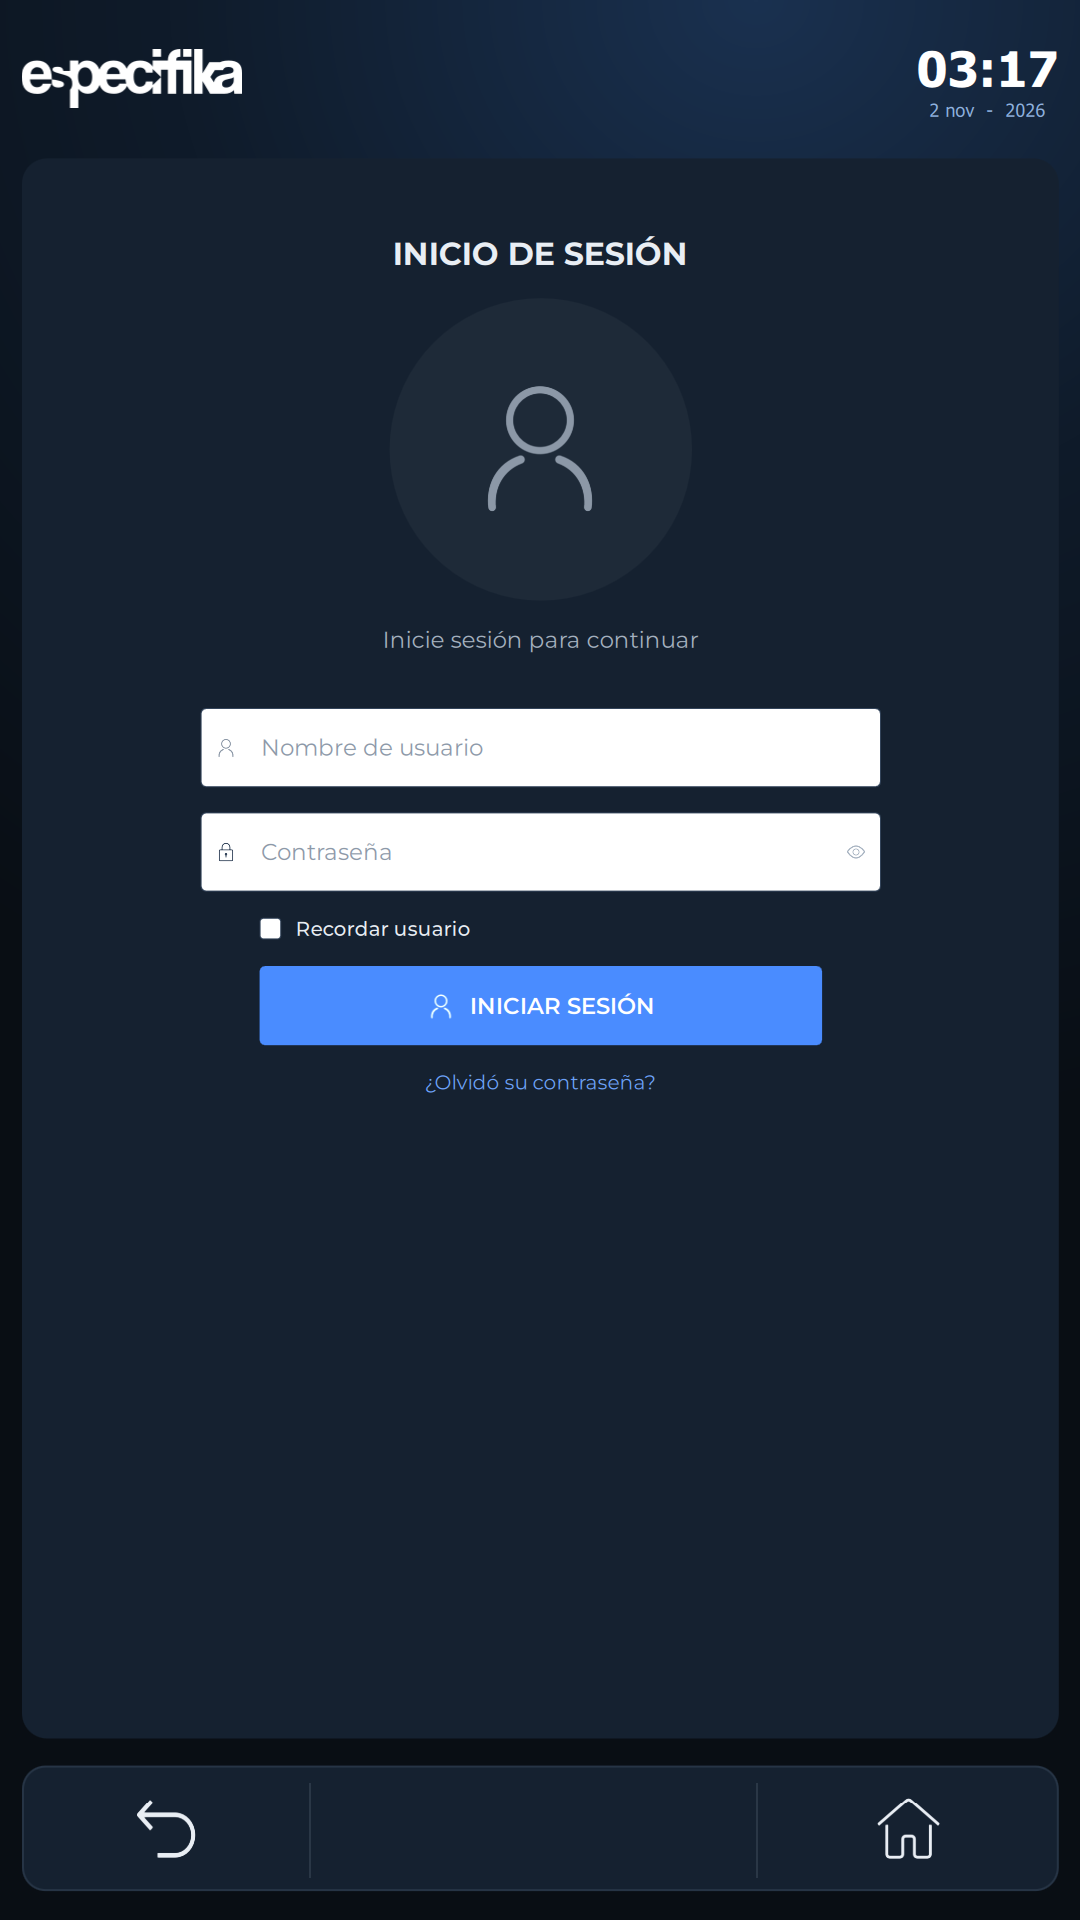
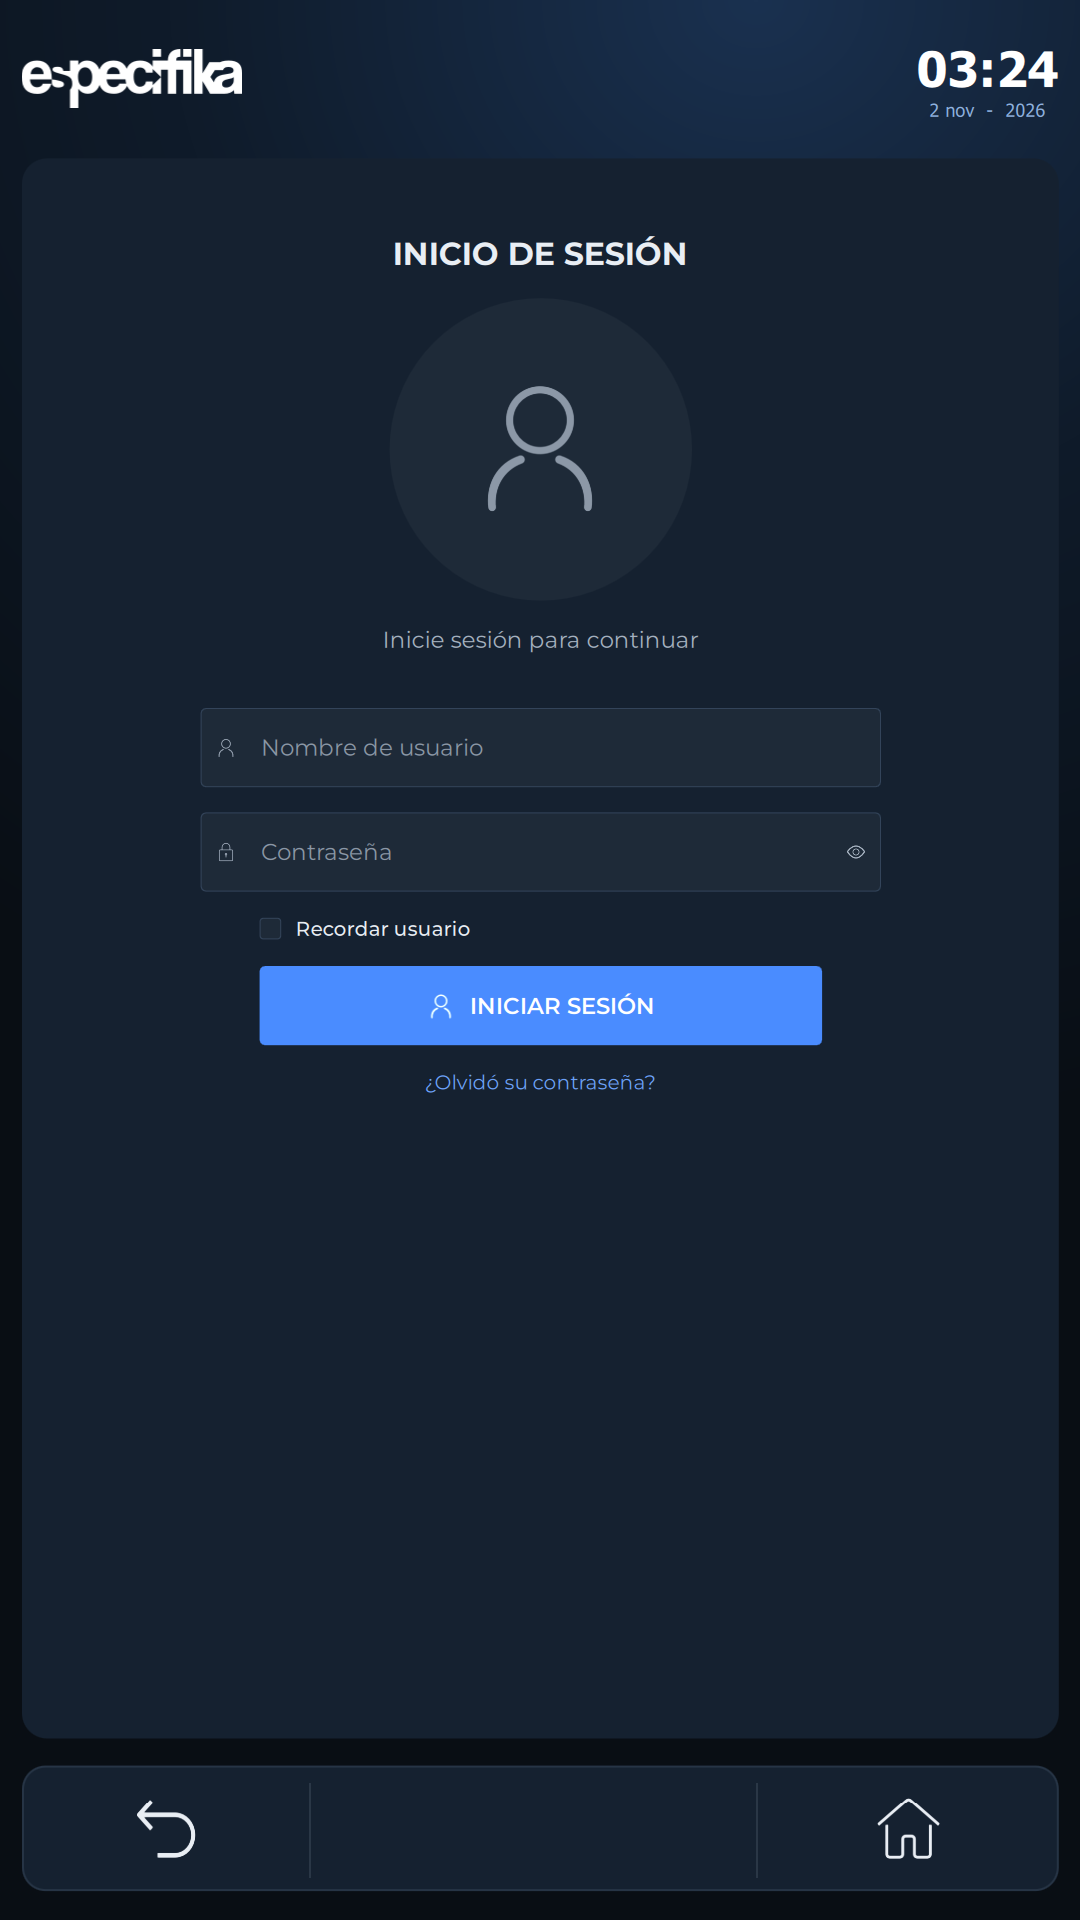
fix(tema): campos de formulario y PUERTA CERRADA legibles en modo oscuro (OSC-21, OSC-22)

Changed region(s): [[0.1833, 0.3438, 0.825, 0.5], [0.9167, 0.0312, 0.9778, 0.0625]]

diff --git a/src/autoclave/ui_qml/qml/Tema/Colores.qml b/src/autoclave/ui_qml/qml/Tema/Colores.qml
@@ -69,6 +69,10 @@ QtObject {
     readonly property color bordeCampo:         oscuro ? "#33445A" : "#CCCCCC" // neutro_300
     readonly property color fondoSutil:         oscuro ? "#18222F" : "#F6F6F6" // bg-subtle
     readonly property color fondoTarjeta:       oscuro ? "#152130" : "#FFFFFF"
+    // Campos de formulario (Login, CampoFormulario, casilla «Recordar usuario»; OSC-21):
+    // claro = el blanco que daba el Rectangle sin color; oscuro = superficie elevada (paleta §6)
+    readonly property color fondoCampo:         oscuro ? "#1E2A38" : "#FFFFFF"
+    readonly property color iconoCampo:         oscuro ? "#8C98A7" : "#CCCCCC" // candado del Login (OSC-18); claro = bordeCampo de hoy
     readonly property color iconoBarraInferior: oscuro ? "#E9EEF4" : "#333333" // neutro_800
 
     // ───────────── Propiedades nuevas del modo oscuro (plan.md §3) ─────────────
@@ -184,6 +188,8 @@ QtObject {
     readonly property color iconoBarraMenu: oscuro ? "#E9EEF4" : "#231F20" // back/home de BarraInferiorMenu (OSC-16)
     readonly property color seleccionSutil:     oscuro ? "#16305E" : "#E8F0FE" // → accionFondoTenue (OSC-11)
     readonly property color puertaCerradaFondo: oscuro ? "#1E2A38" : "#EAF1F8" // → fondoElevado
+    readonly property color puertaCerradaBorde: oscuro ? "#3B6FD8" : "#2C4B70" // IndicadorPuerta «PUERTA CERRADA»: claro = fondoBarraSuperior (OSC-22); oscuro = borde de acción (paleta §2)
+    readonly property color puertaCerradaTexto: oscuro ? "#6EA4FF" : "#2C4B70" // texto e ícono; claro = fondoBarraSuperior, oscuro = accionPrimarioTexto (≥ 3:1 sobre puertaCerradaFondo)
     readonly property color fondoSeccion:       oscuro ? "#18222F" : "#F2F2F2" // → fondoSutil
     readonly property color peligroFuerte:      "#B71C1C" // PanelEquipo (OSC-10)
     readonly property color naranjaTexto:  oscuro ? "#FFAE5C" : "#EC9233" // → advertenciaTexto

diff --git a/src/autoclave/ui_qml/qml/Pantallas/Login.qml b/src/autoclave/ui_qml/qml/Pantallas/Login.qml
@@ -177,6 +177,7 @@ Item {
 
                         Rectangle {
                             width: parent.width; height: Escala.px(88); radius: Escala.px(6)
+                            color: Colores.fondoCampo
                             border.color: raiz.campoActivo === "usuario" ? Colores.accionPrimario
                                                                          : Colores.bordeCampo
                             border.width: raiz.campoActivo === "usuario" ? 2 : 1
@@ -219,6 +220,7 @@ Item {
 
                         Rectangle {
                             width: parent.width; height: Escala.px(88); radius: Escala.px(6)
+                            color: Colores.fondoCampo
                             border.color: raiz.campoActivo === "clave" ? Colores.accionPrimario
                                                                        : Colores.bordeCampo
                             border.width: raiz.campoActivo === "clave" ? 2 : 1
@@ -230,7 +232,7 @@ Item {
                                 anchors.verticalCenter: parent.verticalCenter
                                 width: Escala.px(24); height: Escala.px(24)
                                 source: raiz.iconos + "candado.svg"
-                                color: Colores.bordeCampo
+                                color: Colores.iconoCampo
                             }
 
                             // Alterna ver/ocultar la contraseña. Muestra "ojo_mostrar"
@@ -301,6 +303,7 @@ Item {
                                 anchors.verticalCenter: parent.verticalCenter
                                 width: Escala.px(24); height: Escala.px(24)
                                 radius: Escala.px(4)
+                                color: Colores.fondoCampo
                                 border.color: Colores.bordeCampo; border.width: 1
 
                                 Image {

diff --git a/src/autoclave/ui_qml/qml/Componentes/IndicadorPuerta.qml b/src/autoclave/ui_qml/qml/Componentes/IndicadorPuerta.qml
@@ -37,10 +37,10 @@ Item {
     readonly property color colorFondo: modo === "cerrada" ? Colores.puertaCerradaFondo
                                       : modo === "abierta" ? Colores.advertenciaFondo
                                       : Colores.fondoSutil
-    readonly property color colorBorde: modo === "cerrada" ? Colores.fondoBarraSuperior
+    readonly property color colorBorde: modo === "cerrada" ? Colores.puertaCerradaBorde
                                       : modo === "abierta" ? Colores.advertencia
                                       : Colores.bordeCampo
-    readonly property color colorTexto: modo === "cerrada" ? Colores.fondoBarraSuperior
+    readonly property color colorTexto: modo === "cerrada" ? Colores.puertaCerradaBorde
                                       : modo === "abierta" ? Colores.advertenciaTexto
                                       : Colores.textoGuia
 

diff --git a/src/autoclave/ui_qml/qml/Componentes/CampoFormulario.qml b/src/autoclave/ui_qml/qml/Componentes/CampoFormulario.qml
@@ -35,6 +35,7 @@ Item {
         y: Escala.px(43)
         width: parent.width; height: Escala.px(82)
         radius: Escala.px(6)
+        color: Colores.fondoCampo
         border.color: raiz.mensajeError !== "" ? Colores.peligroTexto
                     : raiz.activo ? Colores.accionPrimario : Colores.bordeDivisor
         border.width: raiz.activo || raiz.mensajeError !== "" ? 2 : 1

diff --git a/tests/test_tema_oscuro.py b/tests/test_tema_oscuro.py
@@ -161,6 +161,8 @@ _OSCURO_COMO = {
     "divisorParam": "bordeDivisor", "divisorPie": "bordeDivisor",
     "lineaAlarmas": "bordeDivisor", "seleccionSutil": "accionFondoTenue",
     "puertaCerradaFondo": "fondoElevado", "fondoSeccion": "fondoSutil",
+    "fondoCampo": "fondoElevado", "iconoCampo": "textoGuia",           # OSC-21 / OSC-18
+    "puertaCerradaTexto": "accionPrimarioTexto", "puertaCerradaBorde": "abrirPuertaBorde",   # OSC-22
     "naranjaTexto": "advertenciaTexto", "naranjaEstado": "advertencia",
     "iconoBarraMenu": "iconoBarraInferior",
 }
@@ -284,6 +286,9 @@ _ORIGEN_CLARO = {
     "divisorParam": (_PRE, "divisorParam"), "divisorPie": (_PRE, "divisorPie"),
     "lineaAlarmas": (_PRE, "lineaAlarmas"), "insignia": (_PRE, "insignia"),
     "textoInsignia": ("blanco",), "iconoBarraMenu": ("svg", "assets/iconos/color/back_icon.svg"),
+    "fondoCampo": ("blanco",), "iconoCampo": ("Colores", "bordeCampo"),
+    "puertaCerradaTexto": ("Colores", "fondoBarraSuperior"),
+    "puertaCerradaBorde": ("Colores", "fondoBarraSuperior"),
     "seleccionSutil": (_PRE, 1000), "puertaCerradaFondo": ("Componentes/IndicadorPuerta.qml", 37),
     "fondoSeccion": ("Componentes/SeccionEstadoSeguro.qml", 79),
     "peligroFuerte": ("Componentes/PanelEquipo.qml", 120),
@@ -447,6 +452,25 @@ def test_e_contraste_de_la_seccion_8_en_oscuro(texto, fondo, minimo):
     props = _colores()
     c = _contraste(props[texto][1], props[fondo][1])
     assert c >= minimo, f"{texto} sobre {fondo}: {c:.2f} < {minimo}"
+
+
+def test_e_campos_de_formulario_y_puerta_cerrada_tienen_claro_y_oscuro_legibles():
+    """OSC-21 / OSC-22: el fondo de campo ya no es el blanco implícito en oscuro."""
+    props = _colores()
+    for nombre in ("fondoCampo", "iconoCampo", "puertaCerradaTexto", "puertaCerradaBorde"):
+        claro, oscuro = props[nombre]
+        assert claro != oscuro, nombre                         # tiene los dos temas
+    assert props["fondoCampo"][0] == "#FFFFFFFF"               # claro = el blanco de hoy
+    for texto, minimo in (("textoPrimario", 4.5), ("textoGuia", 4.5), ("textoSecundario", 4.5),
+                          ("iconoCampo", 3.0), ("bordeCampo", 1.0)):
+        c = _contraste(props[texto][1], props["fondoCampo"][1])
+        assert c >= minimo, f"{texto} sobre fondoCampo (oscuro): {c:.2f} < {minimo}"
+    # el borde del campo activo (acción) y el de error también se ven
+    for texto in ("accionPrimario", "peligroTexto"):
+        assert _contraste(props[texto][1], props["fondoCampo"][1]) >= 3.0, texto
+    # «PUERTA CERRADA» (IndicadorPuerta): texto e ícono legibles sobre su fondo
+    assert _contraste(props["puertaCerradaTexto"][1], props["puertaCerradaFondo"][1]) >= 4.5
+    assert _contraste(props["puertaCerradaBorde"][1], props["puertaCerradaFondo"][1]) >= 3.0
 
 
 # ────────────────── (a) sin literales de color fuera de Tema/ ──────────────────

diff --git a/docs/informes/modo_oscuro/plan.md b/docs/informes/modo_oscuro/plan.md
@@ -74,6 +74,9 @@ Orden: **A primero** (paso 2: Colores con todas las propiedades de §3 + mecanis
 - **OSC-16 (MEDIA)** Valores oscuros sin texto en la paleta, elegidos en el paso 2 (aprobar): `faseEtiqueta` #C9D2DC (etiqueta de fase completada del mockup 03); `faseActivaFin` = #1E5FD9 (en claro la activa es un degradado #0B7A80→#003A9C; en oscuro, sólido); `faseChorro` #33B4F5 (= aro); `graficaCursor` (línea, hoy #3A3A3A) e `graficaIconoFase` → #8C98A7 (texto de ejes); `avatarFondo` → `fondoElevado` (§6 «avatar»); `textoTitulo` (#010006, título de alarmas de Preciclo) → `textoPrimario`; `iconoBarraMenu` (trazo #231F20 de back/home de `BarraInferiorMenu`, ahora con `IconoColor`) → `iconoBarraInferior`; `textoSobreAlarmaMedia` #031225 en los dos temas: el número de `InsigniaCampana` sobre `alarmaMedia` usaba `textoPrimario`, que en oscuro sería claro sobre amarillo (contraste insuficiente). IntroArranque usa en oscuro el gradiente de Reposo, no el de FondoApp, para conservar el relevo sin salto (su comentario lo exige). Riesgo R3: los íconos de `BarraInferior`/`BarraInferiorMenu` pasan a `IconoColor` (máscara): en claro el píxel es el mismo color, pero el antialias puede diferir mínimamente; verificar en capturas (paso 7).
 - **OSC-15 (BAJA)** `exportacion/pdf_ciclo.py` y `pdf_resumen.py` tienen colores en Python: quedan fuera (decisión 3, siempre claros); la prueba (a) solo recorre QML.
 - **OSC-17 (BAJA)** Conjunto C: íconos multicolor pasados a `IconoColor` de un solo color (OSC-07, opción A). `chevron_abajo` (relleno #000 + trazo #B3B3B3) pierde el trazo gris (Desplegable, PanelNotificaciones: `textoNegro` cerrado, `textoPrimario` abierto); `ojo_ocultar` pierde su trazo #031225 y los dos ojos se tiñen con `textoSecundario` (CampoFormulario); `candado` con `bordeCampo`. En claro cambia solo ese detalle fino. `PruebaMovimiento` usa `alarmaAlta`/`accionPrimario` en lugar de red/blue (arnés).
-- **OSC-18 (BAJA)** Conjunto D: mismas simplificaciones de OSC-17 en Login, CambioClave y NuevoUsuario (`ojo_*` con `textoSecundario`, `chevron_abajo`/`arriba` con `textoNegro`/`textoPrimario`, `candado` con `bordeCampo`, `usuario` con `textoGuia`); en oscuro el candado (`bordeCampo` #33445A) queda de poco contraste sobre el campo (sin otra propiedad de claro #CCCCCC; revisar en capturas). Los `#000000` de las capas de atenuación al presionar (TarjetaMenu, TarjetaResumen, ListaCiclos, ResumenPeriodo) usan `textoNegro` (claro idéntico; en oscuro aclaran en lugar de oscurecer, opacidad 0,06-0,08). `"white"` (superficie del botón de la perilla de NuevoUsuario, trazos de la casa de MenuPrincipal, marca de verificación) → `textoSobreAccion`. Sin cambio: `casilla_marcada` (multicolor, Login), `guardar` (blanco), icono blanco del botón de Login, `color/` de TarjetaMenu no teñidos.
+- **OSC-18 (BAJA)** Conjunto D: mismas simplificaciones de OSC-17 en Login, CambioClave y NuevoUsuario (`ojo_*` con `textoSecundario`, `chevron_abajo`/`arriba` con `textoNegro`/`textoPrimario`, `candado` con `bordeCampo`, `usuario` con `textoGuia`); en oscuro el candado (`bordeCampo` #33445A) queda de poco contraste sobre el campo (sin otra propiedad de claro #CCCCCC; revisar en capturas). Los `#000000` de las capas de atenuación al presionar (TarjetaMenu, TarjetaResumen, ListaCiclos, ResumenPeriodo) usan `textoNegro` (claro idéntico; en oscuro aclaran en lugar de oscurecer, opacidad 0,06-0,08). `"white"` (superficie del botón de la perilla de NuevoUsuario, trazos de la casa de MenuPrincipal, marca de verificación) → `textoSobreAccion`. Sin cambio: `casilla_marcada` (multicolor, Login), `guardar` (blanco), icono blanco del botón de Login, `color/` de TarjetaMenu no teñidos. Actualización (OSC-21): el candado del Login pasa a la propiedad nueva `iconoCampo` (claro #CCCCCC = `bordeCampo` de hoy; oscuro #8C98A7 = `textoGuia`, ≥ 3:1 sobre `fondoCampo`).
 - **OSC-19 (BAJA)** `OpcionesParametrosCiclo.qml:209` conserva `<font color='#808080'>` (texto HTML dentro de una cadena, no flagueado por la prueba (a)): `test_i4_ingles_qml` lista esa cadena exacta como marcado permitido y no se relaja. #808080 se lee bien sobre oscuro (casi `textoGuia` oscuro #8C98A7).
 - **OSC-20 (BAJA)** Conjunto B: (1) `DeslizadorInicio` tenía ~15 `Qt.rgba` verdes/blancos/negros decorativos sin propiedad; se derivan de `deslizadorPista/PistaListo` (`pi(alfa)`), `deslizadorNucleo` (`nu`), `textoSobreAccion` (`bl`) y `sombra` (`ne`) con los mismos alfas; en claro los verdes oscuros difieren unos pocos puntos de los literales (alfa <= 0,2 o fondo casi negro, imperceptible); comprobar en capturas. (2) Sigue sin tinte el ícono blanco de `CirculoFaseLiquido` en fase pendiente (`fasePendienteIcono` #6B7889 no se aplica: blanco sobre #222E3C) y `chevron_abajo` del selector de Tiempos de la gráfica (multicolor, OSC-07); `pantalla_completa` pasó a `IconoColor`/`textoNegro`. (3) El borde del punto del cursor de la gráfica usa `graficaCursorFondo`. (4) Colores de serie por posición (`colorSerie`, OSC-05): `modelData.color` ya no se lee en `GraficaCiclo`; `entradas_mostradas.COLORES` queda sin consumidor QML (no se tocó). (5) Valores de sensores de Preciclo/Ciclo por posición (`valorTempCamara/Referencia/Presion`), parámetros en `textoNegro`. (6) `BotonAccion` de Preciclo gana `colorBorde` y `colorTextoBoton` (ABRIR PUERTA oscuro); CANCELAR CICLO lleva `cancelarBorde`.
+- **OSC-21 (MEDIA)** Campos de formulario blancos en oscuro: los `Rectangle` de los campos del Login, del recuadro de `CampoFormulario` y de la casilla «Recordar usuario» no tenían `color` (blanco por defecto). Propiedad nueva `fondoCampo` (claro #FFFFFF = el blanco de hoy; oscuro #1E2A38, el valor de `fondoElevado` de la paleta §6, sin valor propio) usada en esos tres. El resto de pantallas de formulario (NuevoUsuario, CambioClave, Opciones) usa `CampoFormulario` o ya fija color; búsqueda de `Rectangle` sin `color` sin más casos (los restantes son rellenos que reciben color en el uso).
+- **OSC-22 (MEDIA)** «PUERTA CERRADA» (`IndicadorPuerta`, caja del botón de puerta sin actuador) usaba `fondoBarraSuperior` (#1A3150 en oscuro) como texto, borde e ícono sobre fondo #1E2A38: ilegible. Propiedades nuevas `puertaCerradaTexto` (claro #2C4B70, igual que hoy; oscuro #6EA4FF = `accionPrimarioTexto`) y `puertaCerradaBorde` (claro #2C4B70; oscuro #3B6FD8 = borde de acción de la paleta §2). El ícono (PNG con recorte, teñido por `MultiEffect.colorization`) ya seguía `colorTexto`, por lo que se corrige con el mismo color; no se pasó a `IconoColor` porque este no admite `sourceClipRect`. `BotonAccion` deshabilitado (opacidad 0,4) no cambia.
+

diff --git a/docs/informes/modo_oscuro/capturas/LEEME.md b/docs/informes/modo_oscuro/capturas/LEEME.md
@@ -17,9 +17,13 @@ Capturas de dev con el mismo arnés en un worktree limpio, comparadas con PIL (s
 
 Paleta, fondos degradados, tarjetas, bordes y acentos (verde, morado, naranja, azul) coinciden con los mockups. Diferencias:
 
-1. **Campos del Login (y recuadro de `CampoFormulario`) quedan blancos en oscuro**: son `Rectangle` sin `color` (blanco por defecto), no un literal; el claro es correcto. Lo mismo para la casilla «Recordar usuario». Falta una propiedad de Colores (fondo de campo) y asignarla. Sin corregir (fuera del alcance: solo claro).
-2. **Login: íconos de los campos** (usuario, candado, ojo) y la casilla quedan de poco contraste sobre el fondo blanco del hallazgo 1; con el candado en `bordeCampo` (OSC-18) apenas se ve. El avatar sí se ve bien.
-3. **Preciclo: botón «PUERTA CERRADA» deshabilitado** tiene texto e ícono azul muy oscuro sobre el fondo oscuro, casi ilegibles (el ícono de puerta no sigue el tinte de deshabilitado).
+1. **[CORREGIDO, OSC-21] Campos del Login (y recuadro de `CampoFormulario`) quedaban blancos en oscuro**: son `Rectangle` sin `color` (blanco por defecto), no un literal; el claro es correcto. Lo mismo para la casilla «Recordar usuario». Falta una propiedad de Colores (fondo de campo) y asignarla. Sin corregir (fuera del alcance: solo claro).
+2. **[CORREGIDO, OSC-21/OSC-18] Login: íconos de los campos** (usuario, candado, ojo) y la casilla quedan de poco contraste sobre el fondo blanco del hallazgo 1; con el candado en `bordeCampo` (OSC-18) apenas se ve. El avatar sí se ve bien.
+3. **[CORREGIDO, OSC-22] Preciclo: «PUERTA CERRADA» (IndicadorPuerta)** tiene texto e ícono azul muy oscuro sobre el fondo oscuro, casi ilegibles (el ícono de puerta no sigue el tinte de deshabilitado).
 4. **Ciclo en curso**: el chevron del selector «Tiempos» queda negro sobre fondo oscuro (ícono multicolor sin tinte, ya anotado en OSC-20); el ícono blanco de fase pendiente de `CirculoFaseLiquido` no se tiñe.
 5. Los mockups usan otro juego de íconos (más finos: calendario, check, gráfico de barras, información naranja) y contenidos distintos (#1248, 52 ciclos restantes); en la app se conservan los íconos y textos actuales. Las tarjetas del Menú no llevan el halo verde del mockup en «Iniciar sesión».
 6. Fin de ciclo fallido: coincide con la paleta (rojo, ámbar, azul de acción); el círculo de la fase fallida es rojo muy saturado frente al resto de la paleta.
+
+## Corrección de los hallazgos 1-3 (OSC-21, OSC-22)
+
+`Colores.fondoCampo` (oscuro #1E2A38) en los campos del Login, `CampoFormulario` y la casilla «Recordar usuario»; `iconoCampo` para el candado; `puertaCerradaTexto`/`puertaCerradaBorde` para «PUERTA CERRADA» (texto, borde e ícono teñido en #6EA4FF/#3B6FD8). Recapturados `login` y `preciclo_preparado` en oscuro (1080 y 1024). Claro: recaptura comparada con PIL contra las capturas claras guardadas; sin diferencias de color (las únicas diferencias >32/255 caen en el reloj, el deslizador y el borde de íconos, ya conocidos; ningún campo ni el indicador de puerta). Las capturas claras no se regeneraron.

diff --git a/docs/informes/modo_oscuro/estado.md b/docs/informes/modo_oscuro/estado.md
@@ -17,3 +17,5 @@ Rama `modo-oscuro` (desde `dev` c43b9d0b). Prompt: `docs/mis_plans/prompt_claude
 Commits del conjunto A: 658538d2 (persistencia y /theme), e2edffd0 (Colores y Apariencia), 017cf808 (selector), 937c15a6 (fondos y chrome) y el de las pruebas (ver `git log -1`).
 
 Para B, C y D: al migrar un archivo, quitarlo de `_PENDIENTES` en `tests/test_tema_oscuro.py` (la prueba falla si queda en la lista un archivo ya limpio).
+
+Corrección OSC-21/OSC-22 (3 defectos de oscuro de las capturas): `fondoCampo`, `iconoCampo`, `puertaCerradaTexto/Borde`; capturas de oscuro login y preciclo_preparado actualizadas; test_tema_oscuro y pruebas QML de Login/Preciclo/NuevoUsuario/IndicadorPuerta en verde. Ver `git log -1`.
